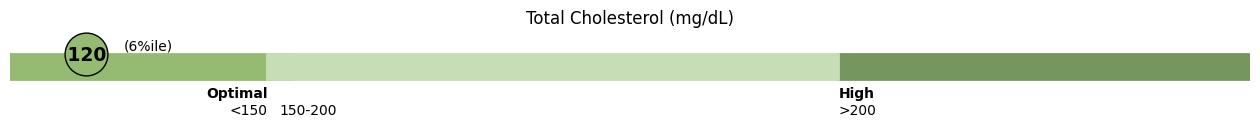
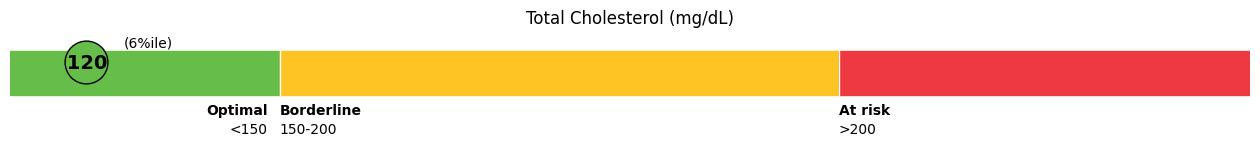
Fixed basic items per focus groups

diff --git a/Home.py b/Home.py
@@ -11,7 +11,7 @@ import yagmail
 import datetime
 from matplotlib.patches import Rectangle
 
-st.set_page_config(page_title="SAHC Comparison Tool", page_icon=":anatomical_heart:", layout="wide")
+st.set_page_config(page_title="CORE Comparison Tool", page_icon=":anatomical_heart:", layout="wide")
 
 # st.caption('####')
 
@@ -30,9 +30,12 @@ def create_download_link(val, filename):
 
 header = st.container()
 with header:
-    # col_image, col_empty, col_pdf = st.columns([1, 3, 1], vertical_alignment='bottom')
-    # with col_image:
-    st.image(image_path, width=500)
+    col_image, col_empty, col_color = st.columns([1, 2, 1], vertical_alignment='top')
+    with col_image:
+        st.image(image_path, width=500)
+    with col_color:
+        colorblind_mode = st.toggle("High Contrast Mode")
+        st.caption("Contrast and colorblindness improvements")
     # with col_pdf:
     #     email = st.text_input("Download a PDF report!", placeholder='Email')
 
@@ -94,8 +97,11 @@ st.markdown(
     unsafe_allow_html=True
 )
 
+red = "#ee3942"
+orange = "#fec423"
+green = "#67bd4a"
 darkgreen = "#75975e"
-regugreen = "#95bb72"
+regugreen = "#9dba82"
 lightgreen = "#c7ddb5"
 
 USER_FILE = os.path.join(DATA_DIR, 'DEMO_P.XPT')
@@ -109,7 +115,7 @@ GHB_FILE = os.path.join(DATA_DIR, 'P_GHB.XPT')
 BPX_FILE = os.path.join(DATA_DIR, 'P_BPXO.XPT')
 CBC_FILE = os.path.join(DATA_DIR, 'P_CBC.XPT')
 BMX_FILE = os.path.join(DATA_DIR, 'P_BMX.XPT')
-# SAHC_FILE = os.path.join(SAHC_DATA_DIR, 'tblCleanedConcatNoPID.csv')
+MCQ_FILE = os.path.join(DATA_DIR, 'P_MCQ.XPT')
 SAHC_FILE = os.path.join(SAHC_DATA_DIR, 'merged_data_noPID.csv')
 
 UNITS_MAP = {
@@ -135,7 +141,7 @@ AHA_RANGES = {
     'Systolic Blood Pressure (mmHg)': ("Optimal", 120, "At risk", None, None, None, None),
     'Diastolic Blood Pressure (mmHg)': ("Optimal", 80, "At risk", None, None, None, None),
     'Total Cholesterol to HDL Ratio': ("Optimal", 3.5, "Borderline", 5, "At risk", None, None),
-    'Hemoglobin A1C (%)': ("Optimal", 5.7, "Borderline", 6.4, "High", None, None),
+    'Hemoglobin A1C (%)': ("Optimal", 5.7, "Borderline", 6.4, "At risk", None, None),
     'Body Mass Index': ("Low", 18.5, "Optimal", 25, "Borderline", 30, "At risk")
 }
 
@@ -182,7 +188,7 @@ with aboutMe_expand:
     with col3:
         ethnicity = st.selectbox('Ethnicity', ['Non-South Asian', 'South Asian'])
     with col4:
-        medications_select = st.multiselect(label="Select your medication use", options=['Cholesterol', 'Diabetes', 'Blood Pressure'])
+        medications_select = st.multiselect(label="Select your medication use", options=['None', 'Cholesterol', 'Diabetes', 'Blood Pressure'])
 
         medChol = 'No'
         medDiab = 'No'
@@ -215,10 +221,11 @@ def load_files(debugging):
         df_ghb = pd.read_sas(GHB_FILE, format='xport')
         df_bpx = pd.read_sas(BPX_FILE, format='xport')
         df_bmx = pd.read_sas(BMX_FILE, format='xport')
+        df_mcq = pd.read_sas(MCQ_FILE, format='xport')
 
         df_combined = df_user[['SEQN', 'RIAGENDR', 'RIDAGEYR', 'RIDRETH3']]
         df_combined = pd.merge(df_combined, df_diq[['SEQN', 'DIQ010', 'DIQ160', 'DIQ050', 'DIQ070']], on='SEQN', how='left')
-        df_combined = pd.merge(df_combined, df_bpq[['SEQN', 'BPQ090D', 'BPQ100D', 'BPQ040A', 'BPQ050A', 'BPQ020']], on='SEQN', how='left')
+        df_combined = pd.merge(df_combined, df_bpq[['SEQN', 'BPQ090D', 'BPQ100D', 'BPQ040A', 'BPQ020']], on='SEQN', how='left')
         df_combined = pd.merge(df_combined, df_hdl[['SEQN', 'LBDHDD']], on='SEQN', how='left')
         df_combined = pd.merge(df_combined, df_tgl[['SEQN', 'LBXTR', 'LBDLDL']], on='SEQN', how='left')
         df_combined = pd.merge(df_combined, df_tch[['SEQN', 'LBXTC']], on='SEQN', how='left')
@@ -226,6 +233,7 @@ def load_files(debugging):
         df_combined = pd.merge(df_combined, df_ghb[['SEQN', 'LBXGH']], on='SEQN', how='left')
         df_combined = pd.merge(df_combined, df_bpx[['SEQN', 'BPXOSY1', 'BPXODI1', 'BPXOPLS1', 'BPXOSY2', 'BPXODI2', 'BPXOPLS2', 'BPXOSY3', 'BPXODI3', 'BPXOPLS3']], on='SEQN', how='left')
         df_combined = pd.merge(df_combined, df_bmx[['SEQN', 'BMXBMI']], on='SEQN', how='left')
+        df_combined = pd.merge(df_combined, df_mcq[['SEQN', 'MCQ160E']], on='SEQN', how='left')
 
         # df_combined['Age_Group'] = df_combined['RIDAGEYR'].apply(lambda age: 20 * int(age / 20))
         df_combined['Age_Group'] = df_combined['RIDAGEYR'].apply(map_age_to_group)
@@ -298,6 +306,8 @@ def ui_choose(df, debugging):
     medDiabFilter = [medDiabOptions[medDiab]]
     medBPFilter = [medBPOptions[medBP]]
 
+    # st.dataframe(df, hide_index=True)
+
     df2 = df.copy()
     df2 = df2[df2['RIAGENDR'].isin(genderFilter)]
     df2 = df2[df2['Age_Group'].isin(ageFilter)]
@@ -320,8 +330,6 @@ def ui_choose(df, debugging):
         df2 = df2[df2['BPQ040A'].isin(medBPFilter)]
     elif medBP == 'No':
         df2 = df2[df2['BPQ020'].isin(medBPFilter) | df2['BPQ040A'].isin(medBPFilter)]
-
-    st.write(f"{len(df2)} records found.")
 
     if len(df2) < 15:
         next_age_group = get_next_age_group(age_group)
@@ -349,6 +357,11 @@ def ui_choose(df, debugging):
             df2 = df2[df2['BPQ020'].isin(medBPFilter) | df2['BPQ040A'].isin(medBPFilter)]
 
         # st.write(f"{len(df2)} records found after expanding age group.")
+    
+    if len(df2) == 0:
+        st.write(f"No records found to compare.")
+    else:
+        st.write(f"{len(df2)} records found.")
 
     return df2
 
@@ -359,7 +372,7 @@ def popup(acro, column, user_input, user_percentile, gender, age_range, med, on_
         st.write(f"The estimated probability of an optimal {column} ≥ {value} {UNITS_MAP[acro]} for a {gender.lower()} aged between {age_range} years is {prob * 100: .0f}%.")
     else:
         st.write(f"The estimated probability of an optimal {column} ≤ {value} {UNITS_MAP[acro]} for a {gender.lower()} aged between {age_range} years is {prob * 100: .0f}%.")
-    if on_med:
+    if on_med == 'Yes':
         st.write(f"An {column} of {user_input:.1f} is at the {user_percentile: .0f}{suffix} percentile for a {gender.lower()} aged between {age_range} years who is on {med}-lowering medication.")
     else:
         st.write(f"An {column} of {user_input:.1f} is at the {user_percentile: .0f}{suffix} percentile for a {gender.lower()} aged between {age_range} years who is not on {med}-lowering medication.")
@@ -572,35 +585,99 @@ def show_analysis(df):
                 if columnName == 'Body Mass Index':
                     ax.plot([extra_high_percentile, extra_high_percentile], [0.6, 0.95], color='white', lw=1, label='Demarcation', zorder=999)
                 
-                if columnName != 'HDL (mg/dL)':
-                    ax.add_patch(Rectangle((0, 0.6), 
-                                    low_percentile, 0.35, 
-                                    color=lightgreen, fill=True, zorder=90))
-                    ax.add_patch(Rectangle((low_percentile, 0.6), 
-                                (high_percentile - low_percentile), 0.35, 
-                                color=darkgreen, fill=True, zorder=90))
-                else:   
-                    ax.add_patch(Rectangle((0, 0.6), 
-                                    low_percentile, 0.35, 
-                                    color=darkgreen, fill=True, zorder=90))
-                    ax.add_patch(Rectangle((low_percentile, 0.6), 
-                                (high_percentile - low_percentile), 0.35, 
-                                color=lightgreen, fill=True, zorder=90))
-                if high_percentile < 99:
-                    ax.add_patch(Rectangle((high_percentile, 0.6), 
-                                    (100 - high_percentile), 0.35, 
-                                    color=darkgreen, fill=True, zorder=90))
-
-                if user_percentile > low_percentile:
-                    if columnName == 'HDL (mg/dL)':
-                        ax.scatter(user_percentile, 0.865, color=lightgreen, zorder=1000, label='Your Input', s=950, edgecolors=['black'])
-                    else:
-                        ax.scatter(user_percentile, 0.865, color=darkgreen, zorder=1000, label='Your Input', s=950, edgecolors=['black'])
+                if colorblind_mode == True:
+                    optimal = lightgreen
+                    borderline = darkgreen
+                    at_risk = darkgreen
                 else:
-                    if columnName == 'HDL (mg/dL)':
-                        ax.scatter(user_percentile, 0.865, color=darkgreen, zorder=1000, label='Your Input', s=950, edgecolors=['black'])
+                    optimal = green
+                    borderline = orange
+                    at_risk = red
+
+                # if columnName != 'HDL (mg/dL)':
+                #     ax.add_patch(Rectangle((0, 0.6), 
+                #                     low_percentile, 0.35, 
+                #                     color=optimal, fill=True, zorder=90))
+                #     ax.add_patch(Rectangle((low_percentile, 0.6), 
+                #                 (high_percentile - low_percentile), 0.35, 
+                #                 color=at_risk, fill=True, zorder=90))
+                # else:
+                #     ax.add_patch(Rectangle((0, 0.6), 
+                #                     low_percentile, 0.35, 
+                #                     color=at_risk, fill=True, zorder=90))
+                #     ax.add_patch(Rectangle((low_percentile, 0.6), 
+                #                 (high_percentile - low_percentile), 0.35, 
+                #                 color=optimal, fill=True, zorder=90))
+
+                # if high_percentile < 99:
+                #     ax.add_patch(Rectangle((high_percentile, 0.6), 
+                #                     (100 - high_percentile), 0.35, 
+                #                     color=at_risk, fill=True, zorder=90))
+
+                if columnName == 'HDL (mg/dL)':
+                    ax.add_patch(Rectangle((0, 0.6), 
+                                    low_percentile, 0.35, 
+                                    color=at_risk, fill=True, zorder=90))
+                    ax.add_patch(Rectangle((low_percentile, 0.6), 
+                                (high_percentile - low_percentile), 0.35, 
+                                color=optimal, fill=True, zorder=90))
+                elif "Blood Pressure" in columnName:
+                    ax.add_patch(Rectangle((0, 0.6), 
+                                    low_percentile, 0.35, 
+                                    color=optimal, fill=True, zorder=90))
+                    ax.add_patch(Rectangle((low_percentile, 0.6), 
+                                (high_percentile - low_percentile), 0.35, 
+                                color=at_risk, fill=True, zorder=90))
+                elif columnName == 'Body Mass Index':
+                    ax.add_patch(Rectangle((0, 0.6), 
+                                    low_percentile, 0.35, 
+                                    color=at_risk, fill=True, zorder=90))
+                    ax.add_patch(Rectangle((low_percentile, 0.6), 
+                                (high_percentile - low_percentile), 0.35, 
+                                color=optimal, fill=True, zorder=90))
+                    ax.add_patch(Rectangle((high_percentile, 0.6), 
+                                (extra_high_percentile - high_percentile), 0.35, 
+                                color=borderline, fill=True, zorder=90))
+                    ax.add_patch(Rectangle((extra_high_percentile, 0.6), 
+                                (100 - extra_high_percentile), 0.35, 
+                                color=at_risk, fill=True, zorder=90))
+                else:
+                    ax.add_patch(Rectangle((0, 0.6), 
+                                    low_percentile, 0.35, 
+                                    color=optimal, fill=True, zorder=90))
+                    ax.add_patch(Rectangle((low_percentile, 0.6), 
+                                (high_percentile - low_percentile), 0.35, 
+                                color=borderline, fill=True, zorder=90))
+                    ax.add_patch(Rectangle((high_percentile, 0.6), 
+                                (100 - high_percentile), 0.35, 
+                                color=at_risk, fill=True, zorder=90))
+
+                if columnName == 'HDL (mg/dL)':
+                    if user_percentile < low_percentile:
+                        ax.scatter(user_percentile, 0.865, color=at_risk, zorder=1000, label='Your Input', s=950, edgecolors=['black'])
                     else:
-                        ax.scatter(user_percentile, 0.865, color=lightgreen, zorder=1000, label='Your Input', s=950, edgecolors=['black'])
+                        ax.scatter(user_percentile, 0.865, color=optimal, zorder=1000, label='Your Input', s=950, edgecolors=['black'])
+                elif 'Blood Pressure' in columnName:
+                    if user_percentile < low_percentile:
+                        ax.scatter(user_percentile, 0.865, color=optimal, zorder=1000, label='Your Input', s=950, edgecolors=['black'])
+                    else:
+                        ax.scatter(user_percentile, 0.865, color=at_risk, zorder=1000, label='Your Input', s=950, edgecolors=['black'])
+                elif columnName == 'Body Mass Index':
+                    if user_percentile < low_percentile:
+                        ax.scatter(user_percentile, 0.865, color=at_risk, zorder=1000, label='Your Input', s=950, edgecolors=['black'])
+                    elif user_percentile < high_percentile:
+                        ax.scatter(user_percentile, 0.865, color=optimal, zorder=1000, label='Your Input', s=950, edgecolors=['black'])
+                    elif user_percentile < extra_high_percentile:
+                        ax.scatter(user_percentile, 0.865, color=borderline, zorder=1000, label='Your Input', s=950, edgecolors=['black'])
+                    else:
+                        ax.scatter(user_percentile, 0.865, color=at_risk, zorder=1000, label='Your Input', s=950, edgecolors=['black'])
+                else:
+                    if user_percentile < low_percentile:
+                        ax.scatter(user_percentile, 0.865, color=optimal, zorder=1000, label='Your Input', s=950, edgecolors=['black'])
+                    elif user_percentile <= high_percentile:
+                        ax.scatter(user_percentile, 0.865, color=borderline, zorder=1000, label='Your Input', s=950, edgecolors=['black'])
+                    elif user_percentile > high_percentile:
+                        ax.scatter(user_percentile, 0.865, color=at_risk, zorder=1000, label='Your Input', s=950, edgecolors=['black'])
 
                 ax.set_xlim(0, 100)
                 ax.set_ylim(0.4, 1.1)
@@ -745,13 +822,13 @@ def show_analysis(df):
                 popup_column = NAME_MAP[column]
 
                 if more_info:
-                    if "HDL" in columnName:
+                    if "HDL (mg/dL)" in columnName:
                         popup(column, popup_column, user_input, user_percentile, gender, age_group, "cholesterol", medChol, prob, value, 
                               percentile_25, percentile_50, percentile_75, percentile_90, "greater", suffix, low_number, high_number)
                     elif "DL" in columnName or "Trig" in columnName or "Chol" in columnName:
                         popup(column, popup_column, user_input, user_percentile, gender, age_group, "cholesterol", medChol, prob, value, 
                               percentile_25, percentile_50, percentile_75, percentile_90, "less", suffix, low_number, high_number)
-                    elif "Glucose" in columnName:
+                    elif "Glucose" in columnName or "A1C" in columnName:
                         popup(column, popup_column, user_input, user_percentile, gender, age_group, "blood sugar", medDiab, prob, value, 
                               percentile_25, percentile_50, percentile_75, percentile_90, "less", suffix, low_number, high_number)   
                     else:
@@ -765,4 +842,4 @@ show_analysis(df_d)
 
 st.divider()
 st.markdown('<div style="text-align: center"> Please email <a href="mailto:sanaa.bhorkar@gmail.com">sanaa.bhorkar@gmail.com</a> with any feedback! </div>', unsafe_allow_html=True)
-st.markdown('<div style="text-align: center"> Version 0.3 </div>', unsafe_allow_html=True)
+st.markdown('<div style="text-align: center"> Version 1.1 </div>', unsafe_allow_html=True)
